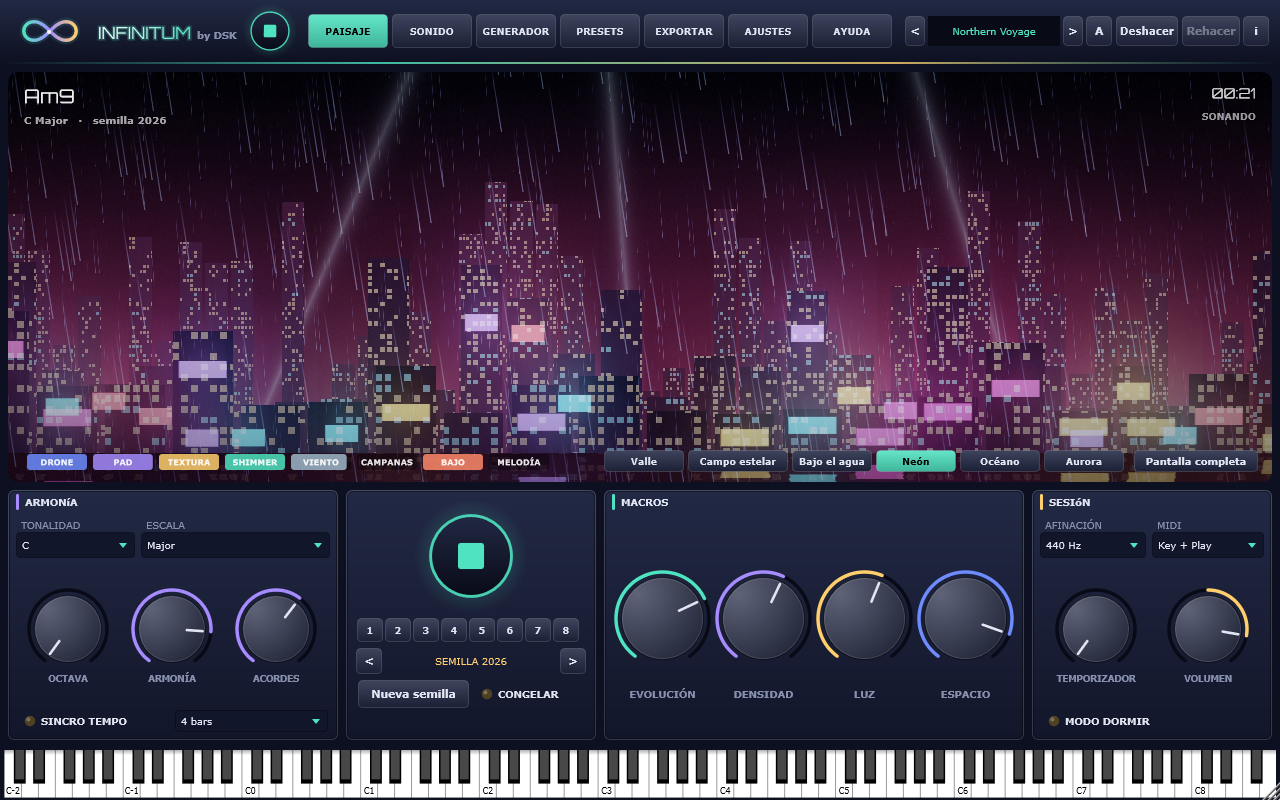
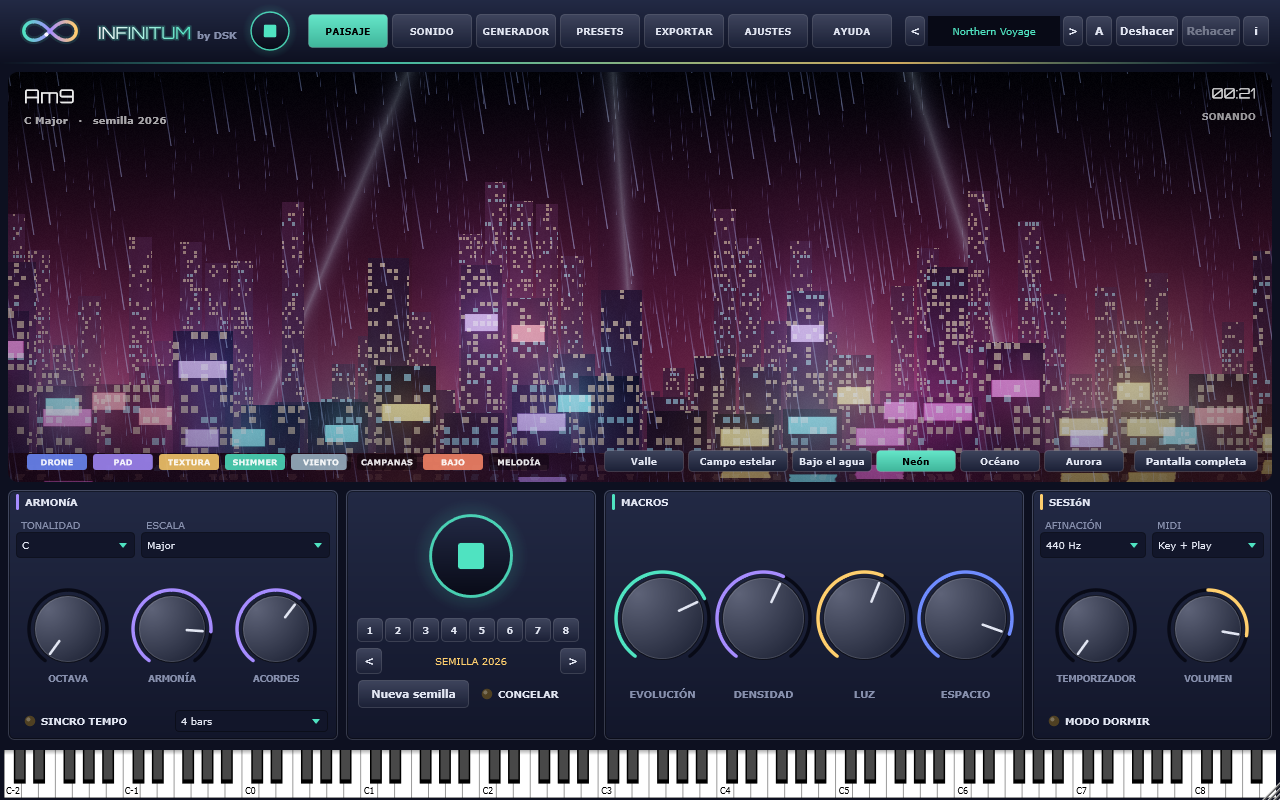
Picture preview with save dialog, landscape variation button, stable full screen (no kiosk), GPU preview in generator [skip ci]

diff --git a/src/ui/Landscape.cpp b/src/ui/Landscape.cpp
@@ -107,9 +107,11 @@ Landscape::Landscape()
 {
     setInterceptsMouseClicks (true, true);   // children: the scene buttons
     // small camera button (bottom-left): saves the landscape as a clean, branded picture
-    struct ShotButton : juce::Button
+    // small glass icon buttons over the landscape: picture (bottom-left) and new landscape variation (under the chord)
+    struct GlassButton : juce::Button
     {
-        ShotButton() : juce::Button ("shot") { setMouseCursor (juce::MouseCursor::PointingHandCursor); setTooltip (L ("Guardar una captura del paisaje", "Save a picture of the landscape")); }
+        int kind;
+        GlassButton (int k, const juce::String& tip) : juce::Button ("glass"), kind (k) { setMouseCursor (juce::MouseCursor::PointingHandCursor); setTooltip (tip); setWantsKeyboardFocus (false); }
         void paintButton (juce::Graphics& g, bool over, bool down) override
         {
             auto r = getLocalBounds().toFloat().reduced (1.0f);
@@ -117,19 +119,36 @@ Landscape::Landscape()
             g.fillRoundedRectangle (r, 5.0f);
             g.setColour (juce::Colours::white.withAlpha (over ? 0.35f : 0.18f));
             g.drawRoundedRectangle (r, 5.0f, 1.0f);
-            const auto c = over ? col::accent : juce::Colours::white.withAlpha (0.7f);
-            auto body = r.reduced (r.getWidth() * 0.22f, r.getHeight() * 0.27f).translated (0, 1.0f + (down ? 0.5f : 0.0f));
-            juce::Path p;
-            p.addRoundedRectangle (body, 2.0f);
-            g.setColour (c);
-            g.strokePath (p, juce::PathStrokeType (1.2f));
-            g.drawLine (body.getX() + body.getWidth() * 0.3f, body.getY() - 1.6f, body.getX() + body.getWidth() * 0.55f, body.getY() - 1.6f, 1.2f);
-            g.drawEllipse (juce::Rectangle<float> (body.getHeight() * 0.62f, body.getHeight() * 0.62f).withCentre (body.getCentre()), 1.2f);
+            g.setColour (over ? col::accent : juce::Colours::white.withAlpha (0.7f));
+            const auto c = r.getCentre().translated (0, down ? 0.5f : 0.0f);
+            if (kind == 0)
+            {
+                auto body = r.reduced (r.getWidth() * 0.22f, r.getHeight() * 0.27f).translated (0, 1.0f + (down ? 0.5f : 0.0f));
+                juce::Path p;
+                p.addRoundedRectangle (body, 2.0f);
+                g.strokePath (p, juce::PathStrokeType (1.2f));
+                g.drawLine (body.getX() + body.getWidth() * 0.3f, body.getY() - 1.6f, body.getX() + body.getWidth() * 0.55f, body.getY() - 1.6f, 1.2f);
+                g.drawEllipse (juce::Rectangle<float> (body.getHeight() * 0.62f, body.getHeight() * 0.62f).withCentre (body.getCentre()), 1.2f);
+            }
+            else
+            {
+                const float rad = r.getHeight() * 0.28f;
+                juce::Path p;
+                p.addCentredArc (c.x, c.y, rad, rad, 0.0f, 0.5f, 5.6f, true);
+                g.strokePath (p, juce::PathStrokeType (1.2f, juce::PathStrokeType::curved, juce::PathStrokeType::rounded));
+                const auto tip = c.translated (rad * std::sin (5.6f), -rad * std::cos (5.6f));
+                juce::Path head;
+                head.addTriangle (tip.translated (-3.2f, -1.6f), tip.translated (1.2f, -3.4f), tip.translated (0.6f, 1.6f));
+                g.fillPath (head);
+            }
         }
     };
-    shotButton = std::make_unique<ShotButton>();
+    shotButton = std::make_unique<GlassButton> (0, L ("Captura del paisaje (vista previa)", "Landscape picture (preview)"));
     shotButton->onClick = [this] { takeScreenshot(); };
     addChildComponent (*shotButton);
+    variantButton = std::make_unique<GlassButton> (1, L ("Nueva variación de este paisaje (el sonido no cambia)", "New variation of this landscape (the sound does not change)"));
+    variantButton->onClick = [] { ++landscapeVariant(); };
+    addChildComponent (*variantButton);
     for (size_t i = 0; i < stars.size(); ++i)
     {
         stars[i] = { rng.nextFloat(), rng.nextFloat() };
@@ -255,7 +274,8 @@ void Landscape::rebuildCache()
 
 void Landscape::tick (const Frame& fr)
 {
-    if (getWidth() > 0 && lastT > 0 && (fr.scene != f.scene || fr.seed != f.seed) && ! f.reduced && ! glOk.load() && ! external.isValid())
+    const int visSeed = fr.seed + landscapeVariant() * 7919;   // the variation button changes the scenery, not the sound
+    if (getWidth() > 0 && lastT > 0 && (fr.scene != f.scene || visSeed != f.seed) && ! f.reduced && ! glOk.load() && ! external.isValid())
     {
         const bool ov = showOverlay;
         showOverlay = false;
@@ -266,6 +286,8 @@ void Landscape::tick (const Frame& fr)
     const double dt = juce::jlimit (0.0, 0.2, fr.time - lastT);
     lastT = fr.time;
     f = fr;
+    shownSeed = fr.seed;
+    f.seed = visSeed;
     for (int l = 0; l < kNumLayers; ++l)
     {
         pres[(size_t) l] += (f.presence[(size_t) l] - pres[(size_t) l]) * (float) juce::jmin (1.0, dt * 1.5);
@@ -379,6 +401,69 @@ void Landscape::resized()
     cacheKey = {};
 }
 
+namespace
+{
+// preview of the picture with Save... (choose where) / Cancel
+struct ShotPreview : juce::Component
+{
+    juce::Image img;
+    juce::TextButton save { L ("Guardar...", "Save...") }, cancel { L ("Cancelar", "Cancel") };
+    std::unique_ptr<juce::FileChooser> chooser;
+    explicit ShotPreview (const juce::Image& i) : img (i)
+    {
+        addAndMakeVisible (save);
+        addAndMakeVisible (cancel);
+        cancel.onClick = [this] { close(); };
+        save.onClick = [this]
+        {
+            auto dir = juce::File::getSpecialLocation (juce::File::userPicturesDirectory);
+            const auto name = "Infinitum " + juce::Time::getCurrentTime().formatted ("%Y-%m-%d %H-%M-%S");
+            chooser = std::make_unique<juce::FileChooser> (L ("Guardar captura", "Save picture"), dir.getNonexistentChildFile (name, ".png"), "*.png");
+            chooser->launchAsync (juce::FileBrowserComponent::saveMode | juce::FileBrowserComponent::canSelectFiles | juce::FileBrowserComponent::warnAboutOverwriting,
+                                  [this] (const juce::FileChooser& fc)
+            {
+                auto f = fc.getResult();
+                if (f == juce::File()) return;
+                f = f.withFileExtension ("png");
+                f.deleteFile();
+                bool ok = false;
+                if (auto out = f.createOutputStream()) { juce::PNGImageFormat png; ok = png.writeImageToStream (img, *out); }
+                if (ok) close();
+                else juce::AlertWindow::showMessageBoxAsync (juce::MessageBoxIconType::WarningIcon, "Infinitum", L ("No se pudo guardar la captura en:\n", "The picture could not be saved to:\n") + f.getFullPathName());
+            });
+        };
+        const int w = 960;
+        setSize (w, juce::roundToInt ((float) w * (float) img.getHeight() / (float) img.getWidth()) + 70);
+    }
+    void close() { if (auto* dw = findParentComponentOfClass<juce::DialogWindow>()) dw->exitModalState (0); }
+    void paint (juce::Graphics& g) override
+    {
+        g.fillAll (col::bg);
+        g.drawImage (img, getLocalBounds().withTrimmedBottom (60).reduced (12).toFloat(), juce::RectanglePlacement::centred);
+    }
+    void resized() override
+    {
+        auto r = getLocalBounds().removeFromBottom (60).reduced (12, 14);
+        cancel.setBounds (r.removeFromRight (120));
+        r.removeFromRight (10);
+        save.setBounds (r.removeFromRight (150));
+    }
+};
+
+void showShotPreview (const juce::Image& img, juce::Component* around)
+{
+    juce::DialogWindow::LaunchOptions o;
+    o.content.setOwned (new ShotPreview (img));
+    o.dialogTitle = L ("Captura del paisaje", "Landscape picture");
+    o.dialogBackgroundColour = col::bg;
+    o.useNativeTitleBar = true;
+    o.resizable = false;
+    o.escapeKeyTriggersCloseButton = true;
+    o.componentToCentreAround = around;
+    if (auto* dw = o.launchAsync()) dw->setAlwaysOnTop (true);   // stays above a DAW or the full-screen view
+}
+}
+
 void Landscape::takeScreenshot()
 {
     const float k = 2.0f;   // twice the on-screen size
@@ -435,15 +520,7 @@ void Landscape::takeScreenshot()
         g.setColour (juce::Colours::white.withAlpha (0.75f));
         g.drawText (credit, foot, juce::Justification::centred);
     }
-    auto dir = juce::File::getSpecialLocation (juce::File::userPicturesDirectory).getChildFile ("Infinitum");
-    dir.createDirectory();
-    auto file = dir.getNonexistentChildFile ("Infinitum " + juce::Time::getCurrentTime().formatted ("%Y-%m-%d %H-%M-%S"), ".png");
-    bool ok = false;
-    if (auto out = file.createOutputStream()) { juce::PNGImageFormat png; ok = png.writeImageToStream (img, *out); }
-    shotMsg = ok ? L ("Captura guardada en Imágenes\\Infinitum", "Picture saved to Pictures\\Infinitum") : L ("No se pudo guardar la captura", "The picture could not be saved");
-    shotMsgAt = juce::Time::getMillisecondCounterHiRes() * 0.001;
-    lastShot = ok ? file : juce::File();
-    repaint();
+    showShotPreview (img, this);
 }
 
 void Landscape::paintFps (juce::Graphics& g, juce::Rectangle<float> b)
@@ -452,6 +529,8 @@ void Landscape::paintFps (juce::Graphics& g, juce::Rectangle<float> b)
     {
         shotButton->setBounds (12, getHeight() - (fullBleed ? 34 : 58), 26, 20);
         shotButton->setVisible (showOverlay && ! external.isValid());
+        variantButton->setBounds (16, 70, 26, 20);
+        variantButton->setVisible (showOverlay && ! external.isValid());
     }
     const double age = juce::Time::getMillisecondCounterHiRes() * 0.001 - shotMsgAt;
     if (age < 3.0 && ! external.isValid())
@@ -1205,7 +1284,7 @@ void Landscape::paintOverlay (juce::Graphics& g, juce::Rectangle<float> b)
     g.drawText (chordName (f.rootPc, f.scale, f.degree, f.harmony), r.removeFromTop (30), juce::Justification::topLeft);
     g.setFont (font (12.5f, true));
     g.setColour (juce::Colours::white.withAlpha (0.65f));
-    g.drawText (keyNames()[(int) f.rootPc % 12] + " " + scaleNames()[f.scale] + juce::String::fromUTF8 ("   ·   ") + L ("semilla ", "seed ") + juce::String (f.seed),
+    g.drawText (keyNames()[(int) f.rootPc % 12] + " " + scaleNames()[f.scale] + juce::String::fromUTF8 ("   ·   ") + L ("semilla ", "seed ") + juce::String (shownSeed),
                 r.removeFromTop (18), juce::Justification::topLeft);
     auto mmss = [] (float s) { const int v = (int) s; return juce::String (v / 60).paddedLeft ('0', 2) + ":" + juce::String (v % 60).paddedLeft ('0', 2); };
     auto top = b.reduced (16, 12);

diff --git a/src/PluginEditor.cpp b/src/PluginEditor.cpp
@@ -247,18 +247,18 @@ void InfinitumEditor::openFullscreen()
     fullscreenView->addToDesktop (juce::ComponentPeer::windowAppearsOnTaskbar);
     fullscreenView->setBounds (juce::Desktop::getInstance().getDisplays().getDisplayForRect (getScreenBounds())->totalArea);
     fullscreenView->setVisible (true);
-    juce::Desktop::getInstance().setKioskModeComponent (fullscreenView.get(), false);
-    fullscreenView->toFront (true);
+    fullscreenView->toFront (true);   // a borderless window covering the screen; no kiosk mode (it minimises / restores on focus changes)
     fullscreenView->grabKeyboardFocus();
 }
 
 void InfinitumEditor::closeFullscreen()
 {
     if (! fullscreenView) return;
-    if (juce::Desktop::getInstance().getKioskModeComponent() == fullscreenView.get()) juce::Desktop::getInstance().setKioskModeComponent (nullptr, false);
     fullscreenView->removeFromDesktop();
     fullscreenView->setLookAndFeel (nullptr);
     fullscreenView.reset();
+    if (auto* peer = getPeer()) peer->getComponent().repaint();   // the main window comes back fully painted
+    repaint();
 }
 
 void InfinitumEditor::timerCallback()

diff --git a/src/ui/Visuals.h b/src/ui/Visuals.h
@@ -141,7 +141,8 @@ private:
     std::atomic<int> framesDrawn { 0 };
     double fpsT0 = 0; float fps = 0;
     void paintFps (juce::Graphics&, juce::Rectangle<float>);
-    std::unique_ptr<juce::Button> shotButton;
+    std::unique_ptr<juce::Button> shotButton, variantButton;
+    int shownSeed = 1;
     juce::String shotMsg; double shotMsgAt = -100;
     juce::File lastShot;
     juce::SpinLock ulock;
@@ -156,4 +157,5 @@ juce::String chordName (int rootPc, int scale, int degree, float harmony); // "A
 // Visual intensity of the stars that appear with the notes (Settings, 0..1)
 inline float& noteStarIntensity() { static float v = 0.3f; return v; }
 inline bool& showFps() { static bool v = false; return v; }
+inline int& landscapeVariant() { static int v = 0; return v; }   // scenery variation (button under the chord)
 }

diff --git a/src/ui/GeneratorPage.cpp b/src/ui/GeneratorPage.cpp
@@ -333,6 +333,7 @@ GeneratorPage::GeneratorPage (Context& c) : Page (c), macros (c, "Macros", "macr
     histLabel.setColour (juce::Label::textColourId, col::phosphor);
     addAndMakeVisible (histLabel);
     view.showOverlay = false;
+    view.setGpu (c.settings.gpu());
     for (auto* comp : std::initializer_list<juce::Component*> { &scope, &spectrum, &view, &vu }) addAndMakeVisible (comp);
     macros.accent = col::accent3;
     std::vector<juce::Component*> mk;

diff --git a/src/ui/MainPages.cpp b/src/ui/MainPages.cpp
@@ -364,7 +364,7 @@ FullscreenView::FullscreenView (Context& c, std::function<void()> onClose) : ctx
 {
     setOpaque (true);
     setWantsKeyboardFocus (true);
-    view.setInterceptsMouseClicks (false, false);
+    view.setInterceptsMouseClicks (false, true);   // the picture / variation buttons stay clickable
     view.fullBleed = true;
     addAndMakeVisible (view);
     view.setGpu (c.settings.gpu());
